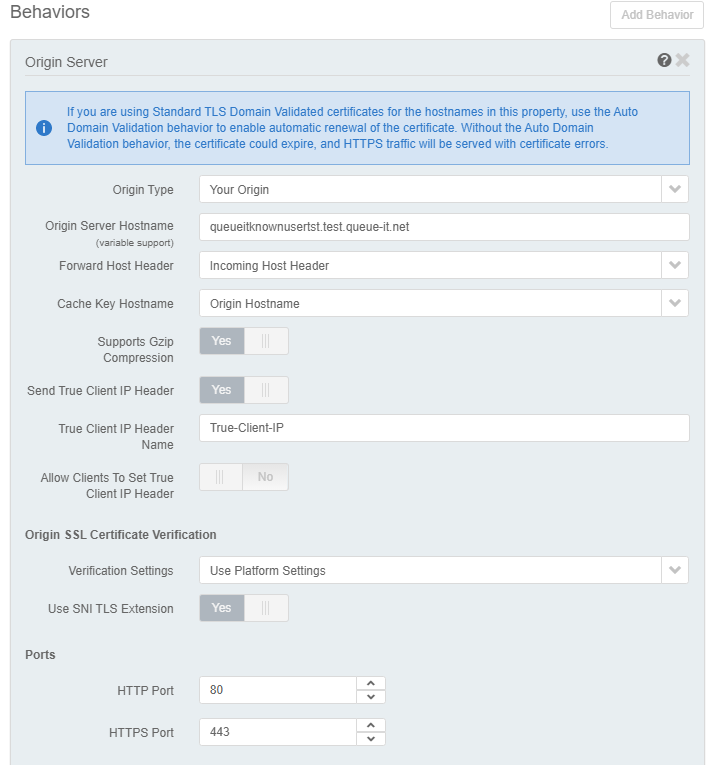
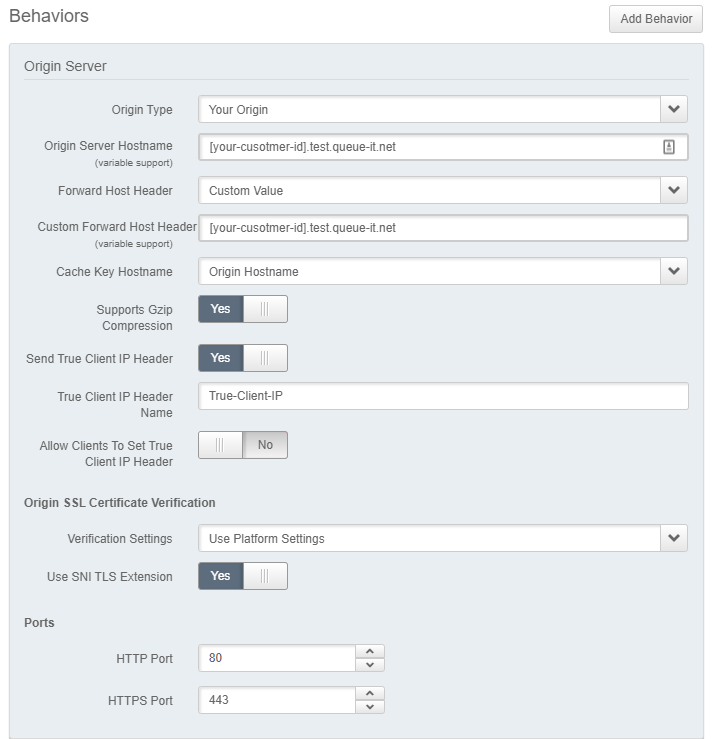
Add files via upload
updated images and documentation

diff --git a/README.md b/README.md
@@ -52,6 +52,8 @@ Add following property configuration in the pictures to download integration con
 
 ![Download integration config Behaviour](https://github.com/queueit/KnownUser.V3.Akamai/blob/main/integrationConfigDonloadBehavior.PNG)
 
+![Download integration config Outgoing Path](https://github.com/queueit/KnownUser.V3.Akamai/blob/main/outgoingRequestPath.PNG)
+
 ![Download integration config cache](https://github.com/queueit/KnownUser.V3.Akamai/blob/main/integrationConfigCache.PNG)
 
 ### Adding a Site Failover behaviour
